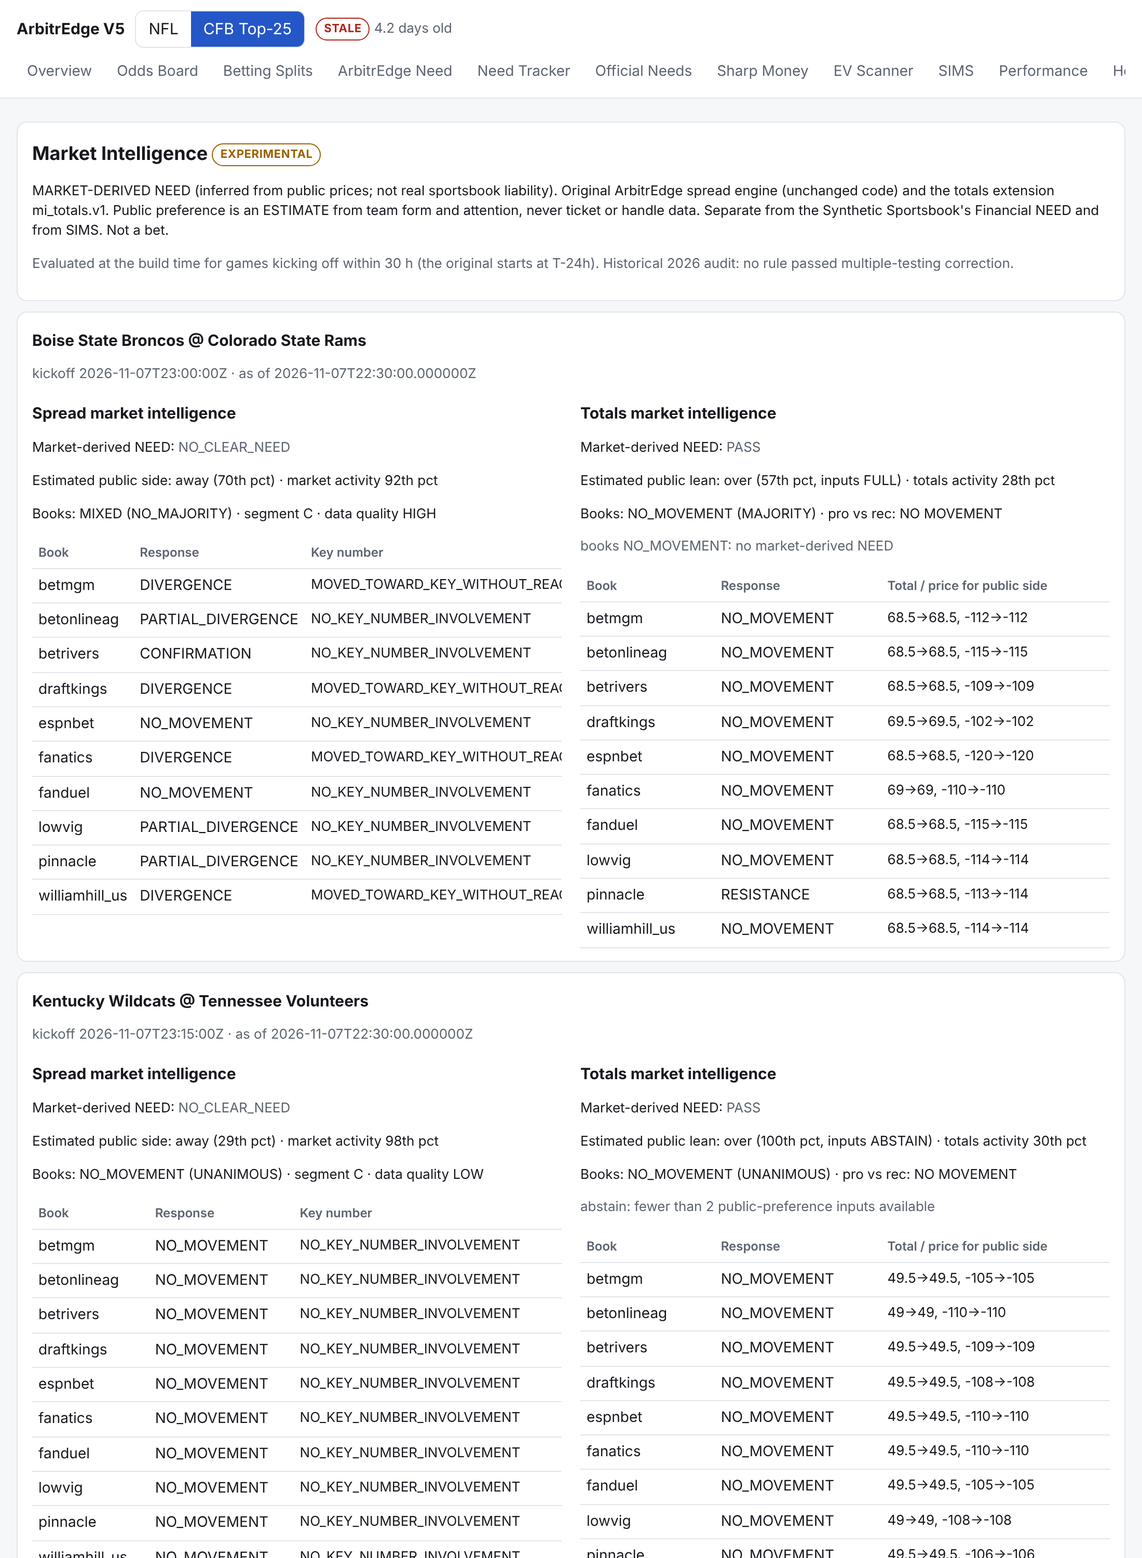
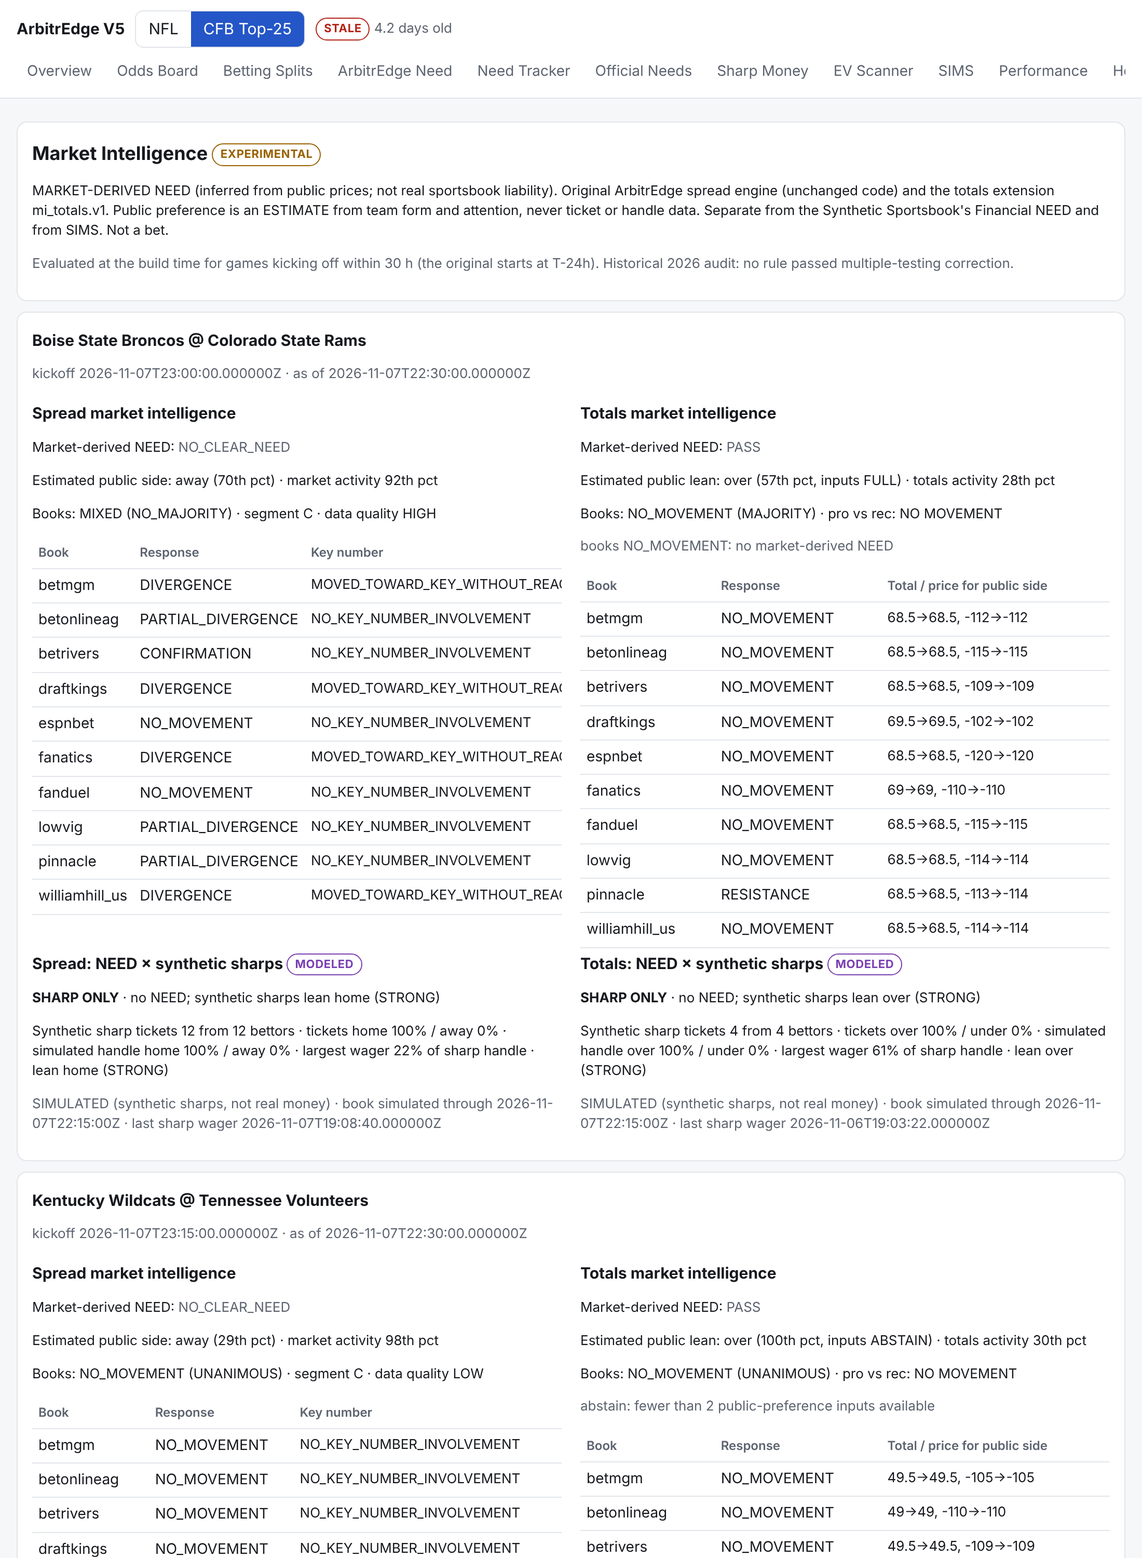
Market Intelligence: synthetic sharp agreement panel + records v2 + separate grading (all behind OFF switches)
Claude-Session: https://claude.ai/code/session_016GA7v6iMKG52wL2eX3wFmm

diff --git a/market_intel/grade.py b/market_intel/grade.py
@@ -1,0 +1,108 @@
+"""
+market_intel/grade.py -- grade frozen market-intelligence records after the game, WITHOUT touching them: each
+graded result is a separate new file `graded_<record name>` (write-once). Result and ROI at the recorded available
+price for the NEED side; closing value = EV of that price at the consensus closing fair line (last pre-kickoff
+quote of every book, no-vig, push-aware; cf1.normalize). PASS records are graded as PASS (no bet).
+"""
+import hashlib
+import json
+import os
+import statistics as st
+
+from cf1 import normalize as NZ
+from sportsbook_v4.market import profit_on_win
+
+_N = {}
+
+
+def _nz(sport, market):
+    if not _N:
+        nm, nt = NZ.nfl()
+        cm, ct = NZ.cfb_plain()
+        _N.update({("nfl", "spread"): nm, ("nfl", "total"): nt, ("cfb", "spread"): cm, ("cfb", "total"): ct})
+    return _N[(sport, market)]
+
+
+def closing_fair(store, sport, event_id, market, kickoff_epoch):
+    mk = {"spread": "spreads", "total": "totals"}[market]
+    a, b = ("home", "away") if market == "spread" else ("over", "under")
+    rows = store.execute("SELECT book, side, point, price, fetched_at FROM mkt_quote WHERE event_id=? AND market=? "
+                         "AND fetched_at<? ORDER BY fetched_at", (event_id, mk, kickoff_epoch)).fetchall()
+    last = {}
+    for bk, sd, pt, pr, fa in rows:
+        last.setdefault(bk, {})[sd] = (pt, pr, fa)
+    mus = []
+    for bk, q in last.items():
+        if a in q and b in q and q[a][2] == q[b][2] and kickoff_epoch - q[a][2] <= 5400:
+            z = _nz(sport, market).quote(a, q[a][0], q[a][1], b, q[b][0], q[b][1])
+            if z:
+                mus.append(z["mu"])
+    return st.median(mus) if mus else None
+
+
+def grade(rec, final, store, kickoff_epoch):
+    g = {"record": rec["record_sha256"], "decision": rec["decision"], "graded_format": "market_intel_graded_v1"}
+    if not rec.get("need") or not rec.get("price_for_need"):
+        return dict(g, status="PASS (no bet)")
+    if not final or None in final:
+        return dict(g, status="NO FINAL SCORE")
+    side, p = rec["need"], rec["price_for_need"]
+    hs, as_ = final
+    v = ((hs - as_) * (1 if side == "home" else -1) + p["point"]) if rec["market"] == "spread" else \
+        ((hs + as_ - p["point"]) * (1 if side == "over" else -1))
+    units = profit_on_win(1.0, p["price"]) if v > 0 else (0.0 if v == 0 else -1.0)
+    mu = closing_fair(store, rec["sport"], rec["event_id"], rec["market"], kickoff_epoch)
+    clv = None
+    if mu is not None:
+        pw, pp = _nz(rec["sport"], rec["market"]).prob_at(mu, side, p["point"])
+        clv = pw * profit_on_win(1.0, p["price"]) - (1 - pw - pp)
+    return dict(g, status="GRADED", final=[hs, as_], result="WIN" if v > 0 else "PUSH" if v == 0 else "LOSS",
+                units=units, profit_at_100=round(100 * units, 2), clv=clv, agreement=(rec.get("agreement") or {}).get("category"))
+
+
+def grade_dir(records_dir, finals, store, out, existing=()):
+    from sportsbook_v4.util import to_epoch
+    existing = set(existing)
+    written = []
+    for name in sorted(os.listdir(records_dir)):
+        if not name.startswith("mi_") or ("graded_" + name) in existing:
+            continue
+        rec = json.load(open(os.path.join(records_dir, name)))
+        k = (rec["sport"], rec["event_id"])
+        if k not in finals and rec.get("need"):
+            continue                                   # wait for the final score
+        g = grade(rec, finals.get(k), store, to_epoch(rec["kickoff"]))
+        g["graded_sha256"] = hashlib.sha256(json.dumps(g, sort_keys=True, default=str).encode()).hexdigest()
+        os.makedirs(out, exist_ok=True)
+        with open(os.path.join(out, "graded_" + name), "x") as f:
+            json.dump(g, f, sort_keys=True, indent=1, default=str)
+        written.append("graded_" + name)
+    return written
+
+
+def main(argv=None):
+    """python -m market_intel.grade --records DIR --shards DIR --results DIR --rankings DIR --out DIR --existing FILE"""
+    import argparse
+    import glob as _g
+    ap = argparse.ArgumentParser()
+    for k in ("records", "shards", "results", "rankings", "out", "existing"):
+        ap.add_argument("--" + k)
+    a = ap.parse_args(argv)
+    from data_v4 import rankings as RK
+    from data_v4 import results as RS
+    from web_v4.live_site import load_rankings, rebuild_store
+    store, _, _ = rebuild_store(a.shards)
+    recs = [json.load(open(p)) for p in _g.glob(os.path.join(a.records, "mi_*.json"))]
+    snaps = load_rankings(a.rankings)
+    latest = max((x for x in snaps if x.get("teams")), key=lambda x: x["fetched_at"], default=None)
+    games = list({(r["sport"], r["event_id"]): {"sport": r["sport"], "event_id": r["event_id"],
+                                                 "home": r["game"].split(" @ ")[1], "away": r["game"].split(" @ ")[0],
+                                                 "kickoff": r["kickoff"][:19] + "Z"} for r in recs}.values())
+    m = RS.match(games, RS.load(a.results), RK.TeamMatcher(latest["teams"]) if latest else None)
+    finals = {k: (v["home_score"], v["away_score"]) for k, v in m.items()}
+    ex = [x.strip() for x in open(a.existing)] if a.existing and os.path.exists(a.existing) else []
+    print(len(grade_dir(a.records, finals, store, a.out, ex)), "graded files written")
+
+
+if __name__ == "__main__":
+    main()

diff --git a/web_v4/live_site.py b/web_v4/live_site.py
@@ -293,7 +293,7 @@ def sharp_follow_step(bconn, conn, active, games, res, now):
     return SF.report(gs, by_game, res, close_line, _iso(now))
 
 
-def market_intel_step(snap, conn, rankings_snaps, results_dir, now, record_out=None, record_existing=None):
+def market_intel_step(snap, conn, rankings_snaps, results_dir, now, record_out=None, record_existing=None, bconn=None):
     """ORIGINAL ArbitrEdge market intelligence (spreads, original code) + totals extension mi_totals.v1.
     Flag-guarded: runs only when MARKET_INTEL=on (default off -> the page is unchanged). Display only; never stops
     the build. Optional write-once prospective records when MARKET_INTEL_RECORD=on (also default off)."""
@@ -317,11 +317,11 @@ def market_intel_step(snap, conn, rankings_snaps, results_dir, now, record_out=N
                "kickoff": _iso(k)} for e, sp, h, a, k in evs]
         docs = _RS.load(results_dir) if results_dir else []
         finals = {k: (v["home_score"], v["away_score"]) for k, v in _RS.match(gl, docs, matcher).items()}
-        snap["market_intel"] = {"status": "OK", "label": _MIL, "cards": _MI.cards(conn, finals, polls, now),
+        snap["market_intel"] = {"status": "OK", "label": _MIL, "cards": _MI.cards(conn, finals, polls, now, bconn),
                                 "results_matched": len(finals)}
         if record_out and _MR.enabled():
             ex = [x.strip() for x in open(record_existing)] if record_existing and os.path.exists(record_existing) else []
-            snap["market_intel"]["records_written"] = len(_MR.record(conn, finals, polls, now, record_out, ex))
+            snap["market_intel"]["records_written"] = len(_MR.record(conn, finals, polls, now, record_out, ex, bconn))
     except Exception as e:                 # noqa: BLE001
         snap["market_intel"] = {"status": "ERROR", "reason": f"{type(e).__name__}: {e}"[:300]}
     snap["market_intel"]["seconds"] = round(_t.time() - t0, 1)
@@ -814,7 +814,15 @@ R.mi=()=>{const M=D.market_intel||{};if(M.status!=="OK")return[card(el("h2",{},"
    el("div",{},el("h3",{},"Totals market intelligence"),el("p",{class:"small"},"Market-derived NEED: ",need(tt)),
     el("p",{class:"small"},"Estimated public lean: "+(tt.public_lean_estimate||"–")+" ("+pctx(tt.public_magnitude_pct)+", inputs "+(tt.inputs||"–")+") · totals activity "+pctx(tt.activity_pct)),
     el("p",{class:"small"},"Books: "+(tt.regime||"–")+(tt.breadth?" ("+tt.breadth+")":"")+" · pro vs rec: "+(tt.sequencing||"–")),
-    el("p",{class:"small mute"},tt.reason||""),books(tt.books,"total"))))})]};
+    el("p",{class:"small mute"},tt.reason||""),books(tt.books,"total"))),
+  el("div",{class:"mi2"},shp("Spread",sp,["home","away"]),shp("Totals",tt,["over","under"])))})]};
+function shp(t,x,sides){const s=x.sharp||{},a=x.agreement||{};const pc=v=>v==null?"–":Math.round(100*v)+"%";
+ return el("div",{},el("h3",{},t+": NEED × synthetic sharps ",badge("MODELED")),
+  el("p",{class:"small"},el("b",{},(a.category||"–").replace(/_/g," "))," · "+(a.why||"")),
+  s.status&&s.status!=="OK"&&!s.tickets?el("p",{class:"small mute"},s.status+(s.reason?" ("+s.reason+")":"")):
+  el("p",{class:"small"},"Synthetic sharp tickets "+(s.tickets||0)+" from "+(s.bettors||0)+" bettors · tickets "+sides.map(k=>k+" "+pc((s.ticket_pct||{})[k])).join(" / ")+
+   " · simulated handle "+sides.map(k=>k+" "+pc((s.handle_pct||{})[k])).join(" / ")+" · largest wager "+pc(s.largest_wager_share)+" of sharp handle · lean "+(s.direction||"none")+(s.strength?" ("+s.strength+")":"")),
+  el("p",{class:"small mute"},(s.label||"SIMULATED")+(s.book_simulated_through?" · book simulated through "+s.book_simulated_through:"")+(s.last_at?" · last sharp wager "+s.last_at:"")))}
 function render(){const h=location.hash.slice(1);let sec=h||"overview",gid=null;if(h.startsWith("game/")){gid=h.slice(5);sec="game"}
  if(sec!=="game"&&!R[sec])sec="overview";if(sec!=="game")st.prev=sec;st.sec=sec;
  for(const b of document.querySelectorAll("#sport button"))b.classList.toggle("on",b.dataset.s===st.sport);
@@ -888,7 +896,7 @@ def main(argv=None):
         for sp in SPORTS:
             (snap["sports"][sp].get("book") or {}).pop("official_snapshots", None)
         snap["official_needs"] = {"status": "ERROR", "reason": f"{type(e).__name__}: {e}"[:300]}
-    market_intel_step(snap, conn, load_rankings(a.rankings_dir), a.results_dir, now, a.mi_out, a.mi_existing)
+    market_intel_step(snap, conn, load_rankings(a.rankings_dir), a.results_dir, now, a.mi_out, a.mi_existing, bconn)
     with open(os.path.join(a.out, "sensitivity_cache.json"), "w") as fh:
         json.dump(snap.pop("_sensitivity_cache", None), fh, separators=(",", ":"))
     try:                                   # display only; never stops the build

diff --git a/tests_market_intel/test_market_intel.py b/tests_market_intel/test_market_intel.py
@@ -67,3 +67,64 @@ def test_live_site_flag_off_leaves_page_unchanged(monkeypatch):
     snap = {}
     L.market_intel_step(snap, None, [], None, KO)
     assert "market_intel" not in snap
+
+
+# ------------------------------------------------------------------------------------------------ sharp agreement
+def _w(side, stake, uid, t="2026-11-01T00:00:00Z"):
+    return {"side": side, "stake": stake, "bettor_uid": uid, "accepted_at": t, "accepted_price": -110.0}
+
+
+def test_sharp_thresholds_and_large_wager_safeguard():
+    from market_intel import sharp as SH
+    assert SH.position([_w("home", 100, "a"), _w("home", 100, "b")], "spread")["status"] == "SPARSE"
+    strong = SH.position([_w("home", 100, "a"), _w("home", 100, "b"), _w("home", 100, "c"), _w("away", 50, "d")], "spread")
+    assert strong["direction"] == "home" and strong["strength"] == "STRONG"
+    # one huge wager carries the handle: never STRONG (robustness check), tickets disagree -> conflict
+    huge = SH.position([_w("home", 5000, "a"), _w("away", 100, "b"), _w("away", 100, "c"), _w("away", 100, "d")], "spread")
+    assert huge["strength"] != "STRONG" and huge["direction"] is None
+    assert SH.classify("home", strong)[0] == "STRONG_AGREEMENT"
+    assert SH.classify("away", strong)[0] == "DISAGREEMENT"
+    assert SH.classify(None, strong)[0] == "SHARP_ONLY"
+    assert SH.classify("home", {"status": "NO_SHARP_WAGERS"})[0] == "MARKET_NEED_ONLY"
+    assert SH.classify(None, {"status": "NO_SHARP_WAGERS"})[0] == "NO_SIGNAL"
+    assert SH.classify("home", {"status": "BALANCED", "direction": None})[0] == "NO_SHARP_CONSENSUS"
+
+
+def test_sharp_card_insufficient_when_book_not_simulated_to_cutoff():
+    from market_intel import sharp as SH
+    from sportsbook_v4.schema import ensure_schema
+    b = sqlite3.connect(":memory:")
+    ensure_schema(b)
+    out = SH.card(b, "nfl", "e1", "spread", "2026-11-01T00:00:00Z", "home")
+    assert out["agreement"]["category"] in ("MARKET_NEED_ONLY", "INSUFFICIENT HISTORICAL SHARP DATA")
+    assert SH.card(None, "nfl", "e1", "spread", "2026-11-01T00:00:00Z", "home")["agreement"]["category"] == \
+        "INSUFFICIENT HISTORICAL SHARP DATA"
+
+
+def test_records_carry_agreement_and_grading_never_edits(tmp_path):
+    from market_intel import grade as G
+    from market_intel import record as R
+    c = _store(str(tmp_path / "s.db"), KO)
+    out = str(tmp_path / "rec")
+    w = R.record(c, {}, [], KO - 3000, out)
+    r = json.load(open(os.path.join(out, w[0])))
+    assert r["format"] == "market_intel_record_v2" and r["agreement"]["category"] == "INSUFFICIENT HISTORICAL SHARP DATA"
+    assert r["input_versions"]["totals_engine"] == "mi_totals.v1"
+    before = {n: open(os.path.join(out, n)).read() for n in w}
+    gw = G.grade_dir(out, {("nfl", "e1"): (24, 20)}, c, str(tmp_path / "graded"))
+    assert len(gw) == len(w) and all(n.startswith("graded_") for n in gw)
+    assert {n: open(os.path.join(out, n)).read() for n in w} == before          # frozen records untouched
+    assert G.grade_dir(out, {("nfl", "e1"): (24, 20)}, c, str(tmp_path / "graded"), existing=gw) == []
+
+
+def test_workflow_gated_and_separate_from_cf1():
+    import yaml
+    wf = yaml.safe_load(open(os.path.join(os.path.dirname(__file__), "..", ".github", "workflows", "site-build.yml")))
+    steps = wf["jobs"]["build"]["steps"]
+    cf1 = [s for s in steps if s.get("name", "").startswith("CF1")]
+    assert len(cf1) == 1 and "v4-cf1" in cf1[0]["run"] and "cf1_new" in cf1[0]["run"] and "mi_" not in cf1[0]["run"]
+    mi = [s for s in steps if "market-intelligence" in s.get("name", "")]
+    assert mi and all(s.get("if") == "${{ vars.MARKET_INTEL_RECORD == 'on' }}" for s in mi)
+    assert all("v4-cf1" not in s["run"] and "cf1_" not in s["run"] for s in mi)
+    build = next(s for s in steps if s.get("name") == "Build site")
+    assert build["env"]["MARKET_INTEL"] == "${{ vars.MARKET_INTEL }}"

diff --git a/market_intel/sharp.py b/market_intel/sharp.py
@@ -101,3 +101,45 @@ def eligible(wagers, sport, event_id, market, cutoff_iso, published_by=None, run
             continue
         out.append(w)
     return out
+
+
+# ------------------------------------------------------------------------------------------------ live (book DB)
+def from_book(bconn, sport, event_id, market, cutoff_iso, data_through_iso=None):
+    """Live/recorder read of the CURRENT build's synthetic-book database (read-only): SHARP wagers accepted by the
+    cutoff in the latest-created run covering this game, plus how far that run had been simulated.
+    Returns (eligible_sharp_wagers, all_wagers_of_market, info)."""
+    if bconn is None:
+        return [], [], {"status": "INSUFFICIENT HISTORICAL SHARP DATA", "reason": "no synthetic-book database"}
+    run = bconn.execute(
+        "SELECT r.run_id, r.created_at, r.engine_version FROM v4_run r WHERE r.sport=? AND EXISTS (SELECT 1 FROM v4_wager w "
+        "WHERE w.run_id=r.run_id AND w.canonical_game_id=?) ORDER BY r.created_at DESC LIMIT 1",
+        (sport, event_id)).fetchone()
+    if run is None:
+        return [], [], {"status": "NO_SHARP_WAGERS", "reason": "game not in the synthetic book (e.g. CFB outside the Top-25)"}
+    rid, created, engine = run
+    through = bconn.execute("SELECT MAX(data_complete_through) FROM v4_interval WHERE run_id=?", (rid,)).fetchone()[0]
+    cur = bconn.execute("SELECT * FROM v4_wager WHERE run_id=? AND canonical_game_id=? AND market=? AND accepted_at<=?",
+                        (rid, event_id, market, cutoff_iso))
+    cols = [c[0] for c in cur.description]
+    ws = [dict(zip(cols, r)) for r in cur.fetchall()]
+    info = {"run_id": rid[:12], "engine_version": engine, "book_simulated_through": through}
+    need_through = min(cutoff_iso, data_through_iso) if data_through_iso else cutoff_iso
+    if through is None or through[:19] < need_through[:19]:
+        info["status"] = "INSUFFICIENT HISTORICAL SHARP DATA"
+        info["reason"] = f"synthetic book only simulated through {through}"
+        return [], ws, info
+    info["status"] = "OK"
+    return [w for w in ws if w["archetype"] == "SHARP"], ws, info
+
+
+def card(bconn, sport, event_id, market, cutoff_iso, need_side, data_through_iso=None):
+    """data_through_iso: latest collected market data available to the build; the book only has to be simulated
+    through min(cutoff, that time) -- it can never be ahead of the data it is simulated from."""
+    sw, allw, info = from_book(bconn, sport, event_id, market, cutoff_iso, data_through_iso)
+    if info["status"] == "INSUFFICIENT HISTORICAL SHARP DATA":
+        return {"sharp": dict(info, label="SIMULATED (synthetic sharps, not real money)"),
+                "agreement": {"category": "INSUFFICIENT HISTORICAL SHARP DATA", "why": info["reason"]}}
+    pos = position(sw, market)
+    cat, why = classify(need_side, pos)
+    return {"sharp": dict(pos, **info, label="SIMULATED (synthetic sharps, not real money)", as_of=cutoff_iso),
+            "agreement": {"category": cat, "why": why}}

diff --git a/market_intel/record.py b/market_intel/record.py
@@ -17,7 +17,7 @@ from market_intel import LABEL
 from market_intel.compat import build, iso
 
 CUTOFFS = {"T-6h": 6 * 3600, "T-1h": 3600}
-FORMAT = "market_intel_record_v1"
+FORMAT = "market_intel_record_v2"     # v2 adds the synthetic sharp agreement (never live before this)
 
 
 def enabled():
@@ -52,12 +52,16 @@ def _best(quotes, market, side):
     return None if best is None else {"book": best[1], "point": best[2], "price": best[3]}
 
 
-def record(store_conn, finals, polls, now, out, existing=()):
+def record(store_conn, finals, polls, now, out, existing=(), bconn=None):
     """Writes new records for every cutoff that has passed for a not-yet-started game. Returns written names."""
+    from market_intel import sharp as SH
     from market_intel.engine import spread_card, totals_card
+    from market_intel.totals import VERSION as TOT_VERSION
     existing = set(existing)
     conn, ids = build(store_conn, finals, polls)
     written, cache = [], {}
+    latest = store_conn.execute("SELECT MAX(fetched_at) FROM mkt_quote WHERE fetched_at<=?", (now,)).fetchone()[0]
+    data_through = iso(latest) if latest else None
     for eid, (gid, sp, home, away, ko) in ids.items():
         if ko <= now:
             continue
@@ -72,7 +76,14 @@ def record(store_conn, finals, polls, now, out, existing=()):
                     continue
                 card = spread_card(conn, gid, iso(t)) if market == "spread" else totals_card(conn, gid, iso(t), cache)
                 q = _quotes(conn, gid, t, market)
-                rec = {"format": FORMAT, "label": LABEL, "sport": sp, "event_id": eid, "game": f"{away} @ {home}",
+                card.update(SH.card(bconn, sp, eid, market, iso(t), card.get("need"), data_through))
+                rec = {"format": FORMAT, "label": LABEL,
+                       "input_versions": {"spread_engine": "book_need_week1_v1 (original, unchanged)",
+                                          "totals_engine": TOT_VERSION, "sharp_agreement": "sharp_agreement.v1",
+                                          "sharp_thresholds": {k: getattr(SH, k) for k in (
+                                              "MIN_WAGERS", "MIN_BETTORS", "STRONG_HANDLE", "STRONG_TICKETS",
+                                              "STRONG_ROBUST", "LEAN_HANDLE")}},
+                       "agreement": card.get("agreement"), "synthetic_sharp": card.get("sharp"), "sport": sp, "event_id": eid, "game": f"{away} @ {home}",
                        "market": market, "cutoff": label, "evaluated_as_of": iso(t), "recorded_at": iso(now),
                        "kickoff": iso(ko), "decision": card.get("decision"), "need": card.get("need"),
                        "strength": card.get("strength"), "evidence": card, "quotes_at_cutoff": q,

diff --git a/market_intel/engine.py b/market_intel/engine.py
@@ -53,9 +53,13 @@ def totals_card(conn, gid, as_of, cache):
             "books": _book_view(r.get("per_book"), "total")}
 
 
-def cards(store_conn, finals, polls, now):
-    """{sport: [card]} for games kicking off in (now, now + 30 h]; every error is reported on its card."""
+def cards(store_conn, finals, polls, now, bconn=None):
+    """{sport: [card]} for games kicking off in (now, now + 30 h]; every error is reported on its card.
+    bconn: this build's synthetic-book database (read-only) for the Synthetic Sharp Agreement panel."""
+    from market_intel import sharp as SH
     conn, ids = build(store_conn, finals, polls)
+    latest = store_conn.execute("SELECT MAX(fetched_at) FROM mkt_quote WHERE fetched_at<=?", (now,)).fetchone()[0]
+    data_through = iso(latest) if latest else None
     out, cache = {"nfl": [], "cfb": []}, {}
     for eid, (gid, sp, home, away, ko) in sorted(ids.items(), key=lambda kv: kv[1][4]):
         if not (now < ko <= now + EVAL_WINDOW_S):
@@ -67,5 +71,9 @@ def cards(store_conn, finals, polls, now):
                 c[name] = fn()
             except Exception as e:                                   # noqa: BLE001  (shown, never hidden)
                 c[name] = {"decision": "ERROR", "reason": f"{type(e).__name__}: {e}"[:200]}
+            try:
+                c[name].update(SH.card(bconn, sp, eid, name, iso(now), c[name].get("need"), data_through))
+            except Exception as e:                                   # noqa: BLE001
+                c[name]["agreement"] = {"category": "ERROR", "why": f"{type(e).__name__}: {e}"[:200]}
         out[sp].append(c)
     return out

diff --git a/docs_v4/MARKET_INTEL_INTEGRATION.md b/docs_v4/MARKET_INTEL_INTEGRATION.md
@@ -94,3 +94,17 @@
 2. Set repository variable `MARKET_INTEL=on`: the tab appears on the next build.
 3. Optionally set `MARKET_INTEL_RECORD=on`: records start at the next T−6h/T−1h cutoffs.
 4. Rollback: unset the variables (instant); records stay immutable.
+
+## 7. Synthetic sharp agreement (`market_intel/sharp.py`; thresholds frozen in 73e280d before any outcome)
+- **Inputs:** read-only SHARP wagers from the synthetic book. Only wagers accepted by the cutoff count, and only
+  when the book has been simulated through min(cutoff, latest market data). Otherwise the status is
+  INSUFFICIENT HISTORICAL SHARP DATA.
+- **Classification thresholds:**
+  - **Sparse:** fewer than 3 wagers or fewer than 2 bettors.
+  - **STRONG:** ≥ 65% of handle, ≥ 60% of tickets, and still ≥ 55% of handle without the largest wager.
+  - **LEAN:** ≥ 55% of handle with no opposite ticket majority.
+  - **Conflict:** a ticket majority against the handle majority counts as no consensus.
+- **Categories:** strong/moderate agreement, disagreement, no sharp consensus, NEED only, sharp only, no signal.
+- **Labelling:** always shown as SIMULATED, never as real money.
+- **Records:** format v2 adds the sharp position, the agreement class, input versions and thresholds.
+- **Grading:** writes separate `graded_*` files and never edits a record.
